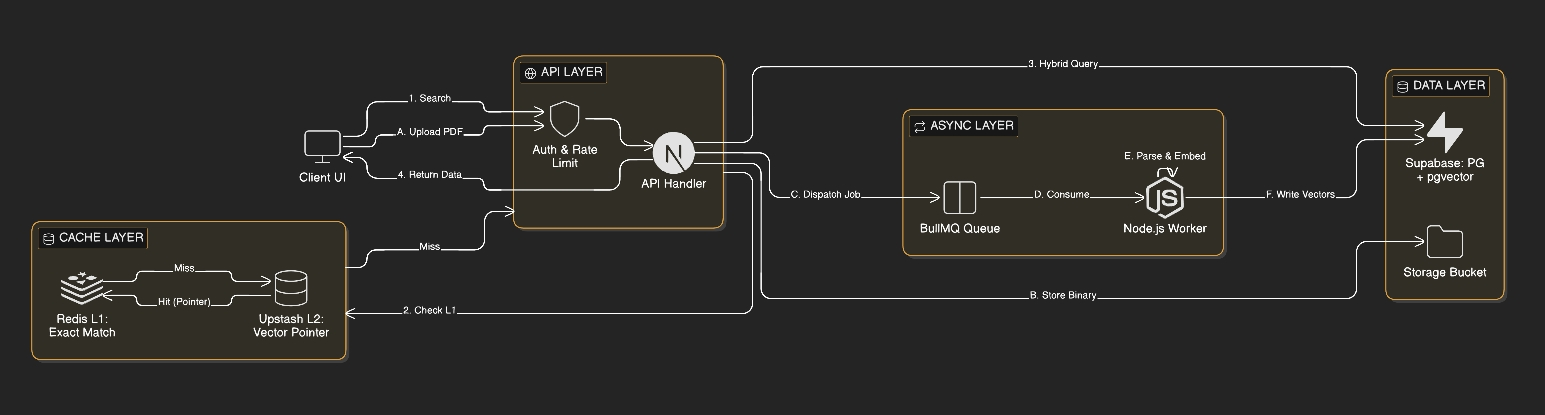
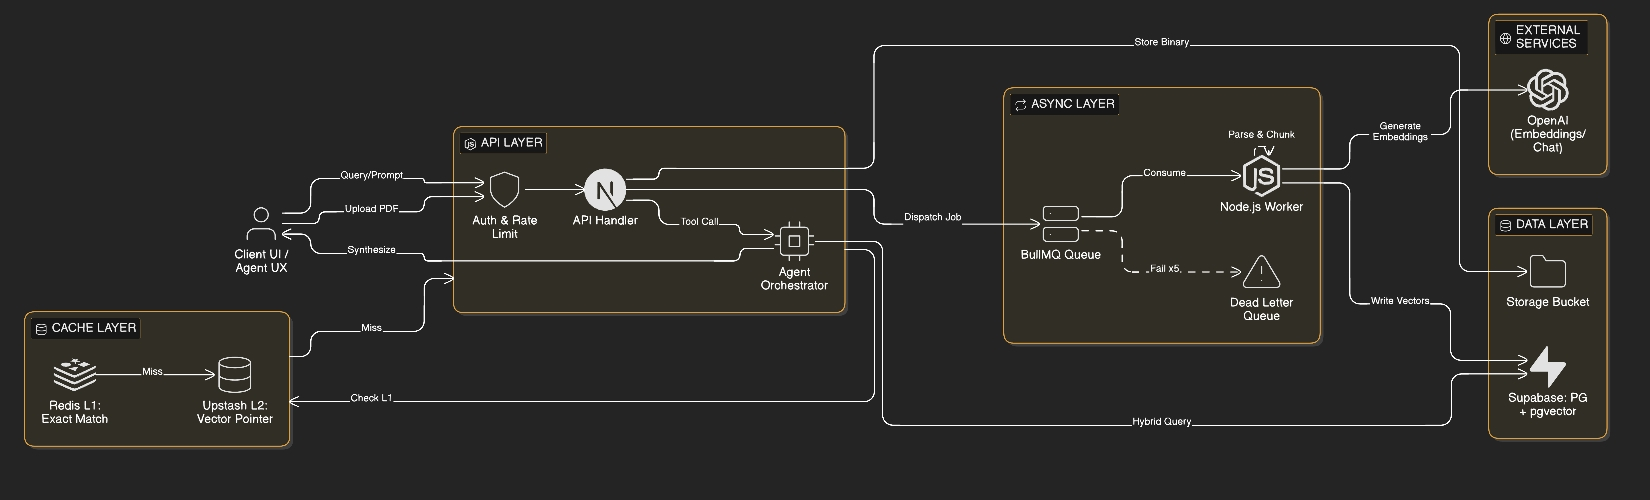
Update README to reflect agentic RAG architecture
Revised terminology in the README from 'Hybrid RAG' to 'Agentic RAG' and updated descriptions to emphasize agent-based orchestration and decision loops. Also updated the High Level Architecture image to match the new terminology and architecture details.

diff --git a/README.md b/README.md
@@ -1,10 +1,10 @@
 # GetFinalOffer
 
-**Distributed Recruitment Engine • Event-Driven Architecture • Hybrid RAG**
+**Distributed Recruitment Engine • Event-Driven Architecture • Agentic RAG**
 
 GetFinalOffer is a high-throughput, AI-native recruitment ecosystem designed to solve the **"Lexical Gap"** in talent discovery.
 
-It replaces fragile keyword-based Applicant Tracking Systems (ATS) with a **Multi-Layered Hybrid RAG Engine**, combining vector-based semantic understanding with deterministic SQL logic. The system runs on a resilient, event-driven backbone to ensure zero-latency user interactions, even under heavy ingestion loads.
+It replaces fragile keyword-based Applicant Tracking Systems (ATS) with a **Multi-Layered Agentic RAG Engine**, combining vector-based semantic understanding with deterministic SQL logic. The system runs on a resilient, event-driven backbone to ensure zero-latency user interactions, even under heavy ingestion loads.
 
 ![High Level Architecture](public/HLA.jpg)
 
@@ -38,18 +38,16 @@ To balance **Cost (OpenAI tokens)** vs. **Latency (User experience)**, I archite
     * *Optimization:* Instead of storing the full 50KB candidate profile in the vector metadata (which hits size limits), I store a tiny **"Pointer Key."** This key resolves to the full payload in Redis.
     * *Benefit:* Drastically reduces vector storage costs (~95% savings) and allows reusing expensive embedding results for "synonymous" searches.
 
-* **L3: Hybrid RAG Search (PostgreSQL + pgvector)**
-    * *Mechanism:* If L1 and L2 miss, the system executes a custom **Hybrid RPC** on the database. It combines **Dense Retrieval** (1536d Vectors) with **Sparse Retrieval** (SQL keyword filters) to generate a new result set.
+* **L3: Agentic RAG Search (PostgreSQL + pgvector)**
+    * *Mechanism:* If L1 and L2 miss, the **Agent Orchestrator** executes a custom RPC on the database. It combines **Dense Retrieval** (1536d Vectors) with **Sparse Retrieval** (SQL keyword filters) to generate a new result set.
 
-### 2. Adaptive Recall Expansion (Dynamic Thresholding)
-One of the hardest challenges in Vector Search is choosing the similarity threshold.
-* *Too Strict (>0.5):* You get zero results for niche queries.
-* *Too Loose (<0.10):* You get hallucinations and irrelevant candidates.
+### 2. Adaptive "Recall Expansion" (Agentic Fallback)
+One of the hardest challenges in Vector Search is choosing the similarity threshold. A strict threshold (>0.5) misses niche candidates; a loose threshold (<0.10) returns hallucinations.
 
-**The Solution:** I implemented **Two-Stage Dynamic Thresholding** within the SQL transaction:
-1.  **Phase 1 (Precision Mode):** The engine executes a strict search (0.32 threshold) to find high-confidence matches.
-2.  **Phase 2 (Recall Mode):** If the result set size is `< 5`, the engine *automatically* re-runs the query with a wider net (0.10 threshold) and flags the results as "Broad Matches."
-* *Result:* The recruiter never sees a blank screen, while the UI transparently communicates the confidence level of each result.
+**The Solution:** I implemented an **Agentic Decision Loop** within the search controller:
+1.  **Phase 1 (Precision Mode):** The agent executes a strict search (0.32 threshold) to find high-confidence matches.
+2.  **Phase 2 (Recall Mode):** If the result set size is `< 5`, the agent *automatically* expands the query scope (0.10 threshold) and flags the results as "Broad Matches."
+* *Result:* The recruiter never sees a blank screen, and the UI transparently communicates the confidence level (Exact vs. Broad).
 
 ### 3. Asynchronous Event-Driven Ingestion
 Processing a PDF upload involves: `Validation -> Upload -> OCR/Parsing -> Chunking -> Embedding -> Indexing`. Doing this synchronously guarantees HTTP timeouts.
@@ -65,7 +63,7 @@ Tracking every user interaction (search, click, view) usually kills database per
 **The Solution:**
 * **Redis Buffer:** Analytics events are pushed to a Redis List (`analytics:buffer`) in real-time (O(1) operation).
 * **Batch Flush:** A background worker pulls events in batches of 100 and performs a single bulk `INSERT` into PostgreSQL.
-* **Dead Letter Queue (DLQ):** If a batch fails (e.g., DB outage), the events are shunted to a DLQ for replay, ensuring **Zero Data Loss**.
+* **Dead Letter Queue (DLQ):** If a batch fails (e.g., DB outage), the events are shunted to a **DLQ** in Redis for replay, ensuring **Zero Data Loss**.
 
 ---
 
